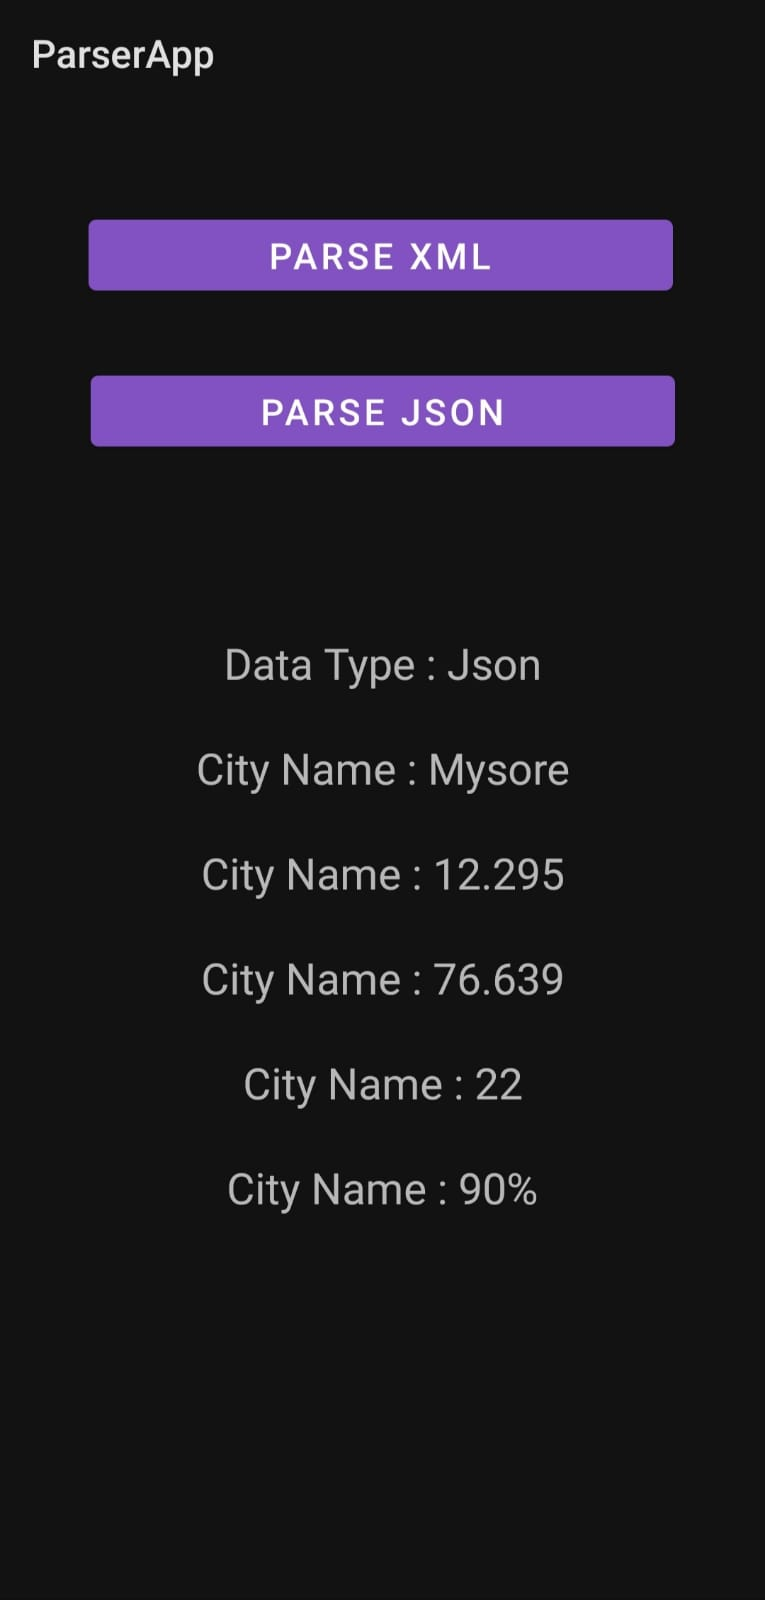
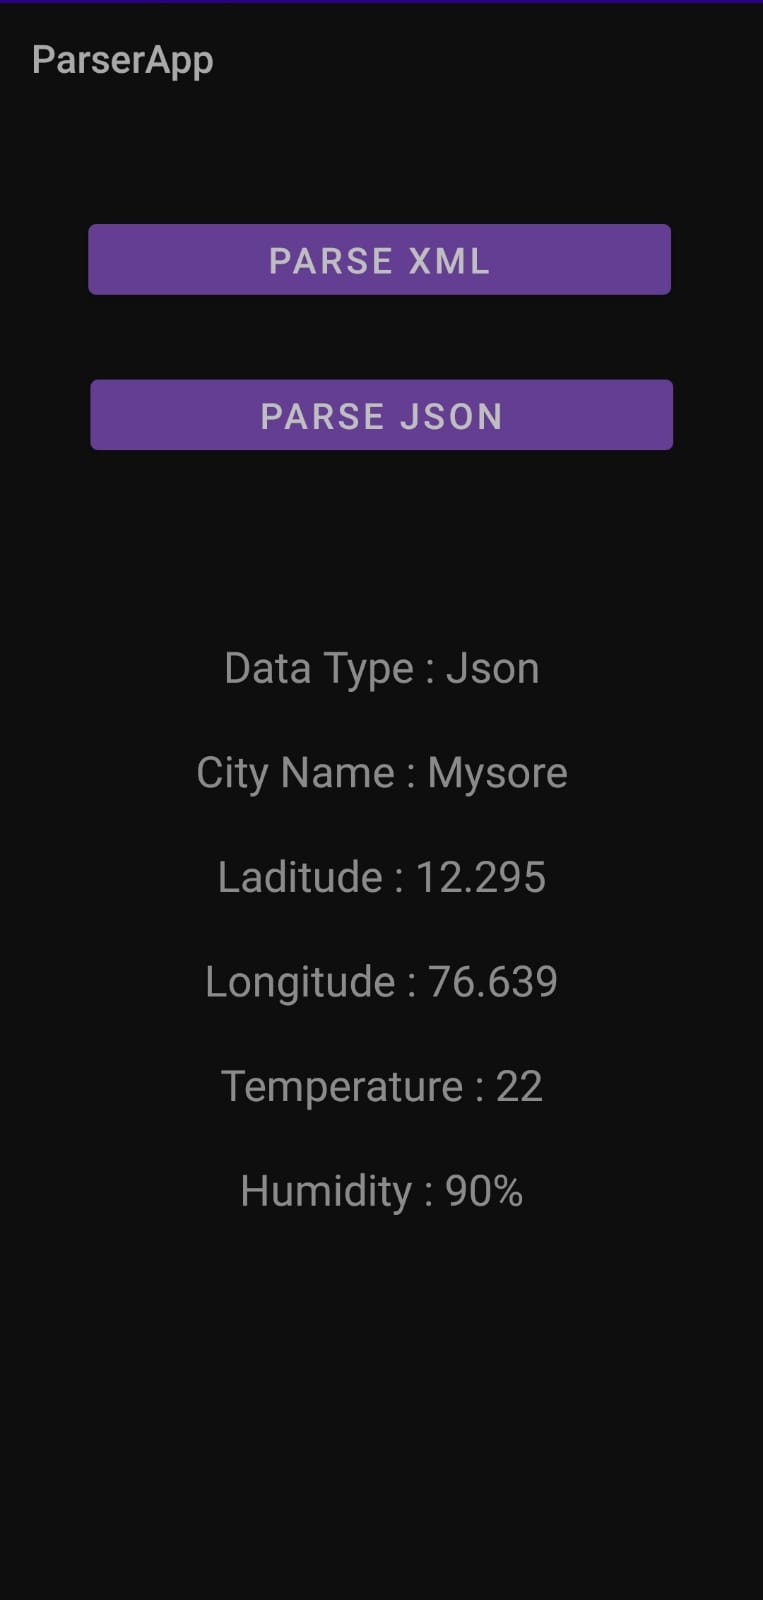
-

diff --git a/ParserApp/app/src/main/java/com/example/parserapp/MainActivity.kt b/ParserApp/app/src/main/java/com/example/parserapp/MainActivity.kt
@@ -28,10 +28,10 @@ class MainActivity : AppCompatActivity() {
             dataType.text = "Data Type : Json"
             val obj = JSONObject(readJSon()!!)
             city.text = "City Name : ${obj.getString("City Name")}"
-            latitude.text = "City Name : ${obj.getString("Latitude")}"
-            longitude.text = "City Name : ${obj.getString("Longitude")}"
-            temp.text = "City Name : ${obj.getString("Temperature")}"
-            humidity.text = "City Name : ${obj.getString("Humidity")}"
+            latitude.text = "Laditude : ${obj.getString("Latitude")}"
+            longitude.text = "Longitude : ${obj.getString("Longitude")}"
+            temp.text = "Temperature : ${obj.getString("Temperature")}"
+            humidity.text = "Humidity : ${obj.getString("Humidity")}"
 
         }
 
